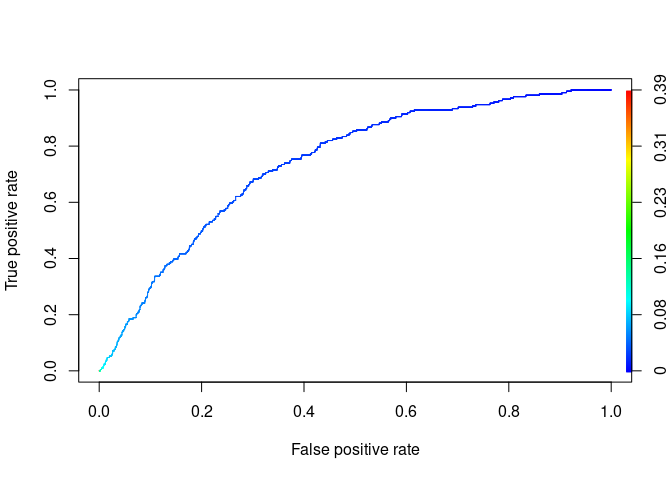
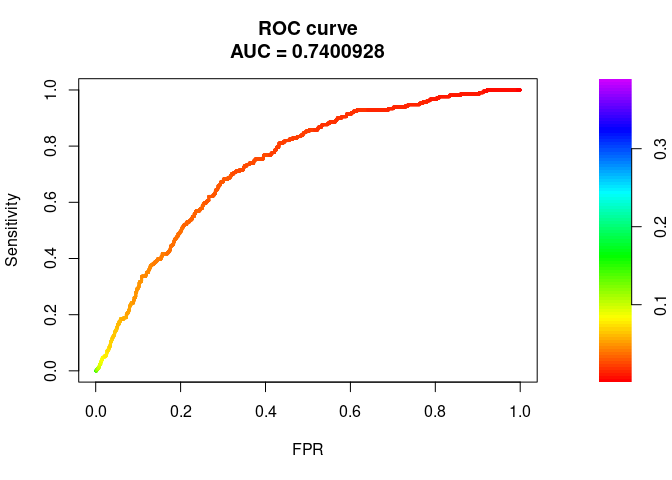
Modifications.

diff --git a/newrmd.md b/newrmd.md
@@ -77,14 +77,18 @@ data <- data %>%
 Plot `lifecycle` over age using line chart:
 
 ``` r
-library(ggplot2)
-library(gridExtra)
-ggplot(data=data, aes(x=age, y=lifecycle, group=1)) +
-  geom_line()+
-  geom_point()
+plot(unique(data[,c("age","lifecycle")]), type = "b", pch = 19, col = "red",
+     main = "Age vs Lifecycle",
+     xlab = "Age",
+     ylab = "Lifecycle")
 ```
 
 ![](newrmd_files/figure-gfm/unnamed-chunk-8-1.png)<!-- -->
+
+``` r
+ library(ggplot2)
+ library(gridExtra)
+```
 
 ### Question 4
 
@@ -98,38 +102,46 @@ book_2 = data[data$account_id=='401749',]
 For each loan, plot the lifecycle of the default rate.
 
 ``` r
-plot_1 = ggplot(data=book_1, aes(x=age, y=default_rate, group=1)) +
-  geom_line()+
-  geom_point()
+par(mfrow=c(1,2))
+
+plot(x = book_1$age, y = book_1$default_rate, type = "b", pch = 19, col = "red",
+     main = "Loan 1",
+     xlab = "Age",
+     ylab = "Default rate")
+
+plot(x = book_2$age, y = book_2$default_rate, type = "b", pch = 19, col = "red",
+     main = "Loan 2",
+     xlab = "Age",
+     ylab = "Default rate")
 ```
 
-``` r
-plot_2 = ggplot(data=book_2, aes(x=age, y=default_rate, group=1)) +
-  geom_line()+
-  geom_point()
-```
-
-``` r
-grid.arrange(plot_1, plot_2, ncol=2)
-```
-
-![](newrmd_files/figure-gfm/unnamed-chunk-12-1.png)<!-- -->
+![](newrmd_files/figure-gfm/unnamed-chunk-10-1.png)<!-- -->
 
 Do the two loans follow the portfolio’s lifecycle?
 
 ``` r
-plot_3 = ggplot(data = data, aes(x=age, y=lifecycle, group=1)) +
-  geom_line() +
-  geom_line(data = book_1, aes(x=age, y=default_rate, group=1), color = "red")
+par(mfrow=c(1,2))
 
-plot_4 = ggplot(data = data, aes(x=age, y=lifecycle, group=1)) +
-  geom_line() +
-  geom_line(data = book_2, aes(x=age, y=default_rate, group=1), color = "red")
+plot(x = book_1$age, y = book_1$default_rate, type = "b", pch = 19, col = "red", ylim = c(0, 0.035),
+     main = "Loan 1",
+     xlab = "Age",
+     ylab = "Default rate")
 
-grid.arrange(plot_3, plot_4, ncol=2)
+points(unique(data[,c("age","lifecycle")]), type = "p", pch = 19, col = "black")
+
+lines(unique(data[,c("age","lifecycle")]), lty = 2, col="black")
+
+plot(x = book_2$age, y = book_2$default_rate, type = "b", pch = 19, col = "red", ylim = c(0, 0.08),
+     main = "Loan 2",
+     xlab = "Age",
+     ylab = "Default rate")
+
+points(unique(data[,c("age","lifecycle")]), type = "p", pch = 19, col = "black")
+
+lines(unique(data[,c("age","lifecycle")]), lty = 2, col="black")
 ```
 
-![](newrmd_files/figure-gfm/unnamed-chunk-13-1.png)<!-- -->
+![](newrmd_files/figure-gfm/unnamed-chunk-11-1.png)<!-- -->
 
 The first account `400293` seems to align closely with the portfolio’s
 lifecycle, but the second account `401749` doesn’t.
@@ -204,7 +216,7 @@ f_1 = mod_bound$fitted.values
 plot(f_1, data[unlist(mod_bound$obs_selection),]$default_rate)
 ```
 
-![](newrmd_files/figure-gfm/unnamed-chunk-17-1.png)<!-- -->
+![](newrmd_files/figure-gfm/unnamed-chunk-15-1.png)<!-- -->
 
 ``` r
 pred_1 = predict(mod_bound, book_1)
@@ -213,18 +225,28 @@ pred_2 = predict(mod_bound, book_2)
 df_1 = data.frame(Age = book_1$age, Actual = book_1$default_rate, Predicted = pred_1)
 df_2 = data.frame(Age = book_2$age, Actual = book_2$default_rate, Predicted = pred_2)
 
-pplot_1 = ggplot(data = df_1, aes(x=Age, y=Actual, group=1)) +
-  geom_point() +
-  geom_point(data = df_1, aes(x=Age, y=Predicted, group=1), color = "red")
+par(mfrow=c(1,2))
 
-pplot_2 = ggplot(data = df_2, aes(x=Age, y=Actual, group=1)) +
-  geom_point() +
-  geom_point(data = df_2, aes(x=Age, y=Predicted, group=1), color = "red")
+plot(x = df_1$Age, y = df_1$Predicted, type = "p", pch = 19, col = "red",
+     main = "Loan 1",
+     xlab = "Time",
+     ylab = "Default rate")
 
-grid.arrange(pplot_1, pplot_2, ncol=2)
+points(x = df_1$Age, df_1$Actual, type = "p", pch = 19, col = "black")
+
+legend("topright", c("Actual","Predicted"), col=c("black","red"), pch=c(19,19))
+
+plot(x = df_2$Age, y = df_2$Predicted, type = "p", pch = 19, col = "red",
+     main = "Loan 2",
+     xlab = "Time",
+     ylab = "Default rate")
+
+points(x = df_2$Age, df_2$Actual, type = "p", pch = 19, col = "black")
+
+legend("topright", c("Actual","Predicted"), col=c("black","red"), pch=c(19,19))
 ```
 
-![](newrmd_files/figure-gfm/unnamed-chunk-18-1.png)<!-- -->
+![](newrmd_files/figure-gfm/unnamed-chunk-16-1.png)<!-- -->
 
 ## Problem 2
 
@@ -311,7 +333,7 @@ barplot(monthly_loans$n,
         names.arg = 1:12)
 ```
 
-![](newrmd_files/figure-gfm/unnamed-chunk-24-1.png)<!-- -->
+![](newrmd_files/figure-gfm/unnamed-chunk-22-1.png)<!-- -->
 
 ### Question 3
 
@@ -354,7 +376,7 @@ barplot(yearly_loans$n,
         names.arg = yearly_loans$year)
 ```
 
-![](newrmd_files/figure-gfm/unnamed-chunk-26-1.png)<!-- -->
+![](newrmd_files/figure-gfm/unnamed-chunk-24-1.png)<!-- -->
 
 ### Question 4
 
@@ -424,29 +446,8 @@ merged %>%
 Tabulate the variables `arrears`, `mortgage_type` and `occupancy`.
 
 ``` r
-df = data_frame(merged$arrears, merged$mortgage_type, merged$occupancy)
-apply(df, 2, table)
-```
-
-    ## $`merged$arrears`
-    ## 
-    ##     0     1     2     3     4 
-    ## 52124  5523  2371  1538    27 
-    ## 
-    ## $`merged$mortgage_type`
-    ## 
-    ## bullet    erm linear 
-    ##  19958  17326  18181 
-    ## 
-    ## $`merged$occupancy`
-    ## 
-    ##            btl   holiday home owner occupied 
-    ##          12296          27996          13112
-
-``` r
-# Percentage: waiting for an answer
 library(janitor)
-
+df = data_frame(merged$arrears, merged$mortgage_type, merged$occupancy)
 apply(df, 2, tabyl)
 ```
 
@@ -559,31 +560,23 @@ Plot average predicted vs average actual over time.
 ``` r
 train$default_flag = as.numeric(as.character(train$default_flag))
 agg_1 = train %>% group_by(obs_m) %>% summarise_at(vars(default_flag, pred_default), mean)
-agg_1
+
+plot(agg_1$obs_m, agg_1$default_flag,
+     main = "Actual Default vs Predicted Default",
+     xlab = "Time",
+     ylab = "Default rate",
+     type = "o", col  = "blue", pch=20,
+     )
+lines(agg_1$obs_m, agg_1$pred_default, 
+      lty = 2, col="red")
+
+points(agg_1$obs_m, agg_1$pred_default,
+       col="red", pch = 18)
+
+legend("topright", c("Actual","Predicted"), lty = c(1,2), col=c("blue","red"), pch=c(20,18))
 ```
 
-    ## # A tibble: 60 × 3
-    ##    obs_m      default_flag pred_default
-    ##    <date>            <dbl>        <dbl>
-    ##  1 2014-04-01       0.0588       0.0169
-    ##  2 2014-05-01       0            0.0205
-    ##  3 2014-06-01       0            0.0239
-    ##  4 2014-07-01       0.0638       0.0246
-    ##  5 2014-08-01       0            0.0275
-    ##  6 2014-09-01       0.04         0.0301
-    ##  7 2014-10-01       0.0208       0.0291
-    ##  8 2014-11-01       0            0.0254
-    ##  9 2014-12-01       0.0444       0.0233
-    ## 10 2015-01-01       0            0.0199
-    ## # … with 50 more rows
-
-``` r
-plot(agg_1$obs_m, agg_1$default_flag, type="o", col="blue", pch="o", lty=1, ylab="y" )
-points(agg_1$obs_m, agg_1$pred_default, col="red", pch="*")
-lines(agg_1$obs_m, agg_1$pred_default, col="red",lty=2)
-```
-
-![](newrmd_files/figure-gfm/unnamed-chunk-38-1.png)<!-- -->
+![](newrmd_files/figure-gfm/unnamed-chunk-36-1.png)<!-- -->
 
 Create 3 categories of borrower credit score.
 
@@ -591,23 +584,7 @@ Create 3 categories of borrower credit score.
 train = mutate(train, bcs = ifelse(credit_score<= 650, "low-score", ifelse(credit_score > 650 & credit_score <= 800, "mid-score", "high-score")))
 
 agg_2 = train %>% group_by(bcs) %>% summarise_at(vars(default_flag, pred_default), mean)
-agg_2
-```
 
-    ## # A tibble: 3 × 3
-    ##   bcs        default_flag pred_default
-    ##   <chr>             <dbl>        <dbl>
-    ## 1 high-score      0.00907       0.0121
-    ## 2 low-score       0.0345        0.0353
-    ## 3 mid-score       0.0210        0.0204
-
-``` r
-class(agg_2)
-```
-
-    ## [1] "tbl_df"     "tbl"        "data.frame"
-
-``` r
 barplot(t(as.matrix(agg_2[,-1])),
         main = "Actual Default vs Predicted Default",
         xlab = "Score Category",
@@ -620,25 +597,39 @@ legend("topleft",
        fill = gray.colors(2))
 ```
 
-![](newrmd_files/figure-gfm/unnamed-chunk-39-1.png)<!-- -->
+![](newrmd_files/figure-gfm/unnamed-chunk-37-1.png)<!-- -->
 
 ### Question 15
 
-Generate out of sample predictions.
+Generate out-of-sample predictions.
 
 ``` r
 test$oos_pred = predict(log_mod, test, type = "response")
 
 test$default_flag = as.numeric(as.character(test$default_flag))
-
-agg_3 = test %>% group_by(obs_m) %>% summarise_at(vars(default_flag, oos_pred), mean)
-
-plot(agg_3$obs_m, agg_3$default_flag, type="o", col="blue", pch="o", lty=1, ylab="y")
-points(agg_3$obs_m, agg_3$oos_pred, col="red", pch="*")
-lines(agg_3$obs_m, agg_3$oos_pred, col="red",lty=2)
 ```
 
-![](newrmd_files/figure-gfm/unnamed-chunk-40-1.png)<!-- -->
+Plot average predicted vs average actual over time.
+
+``` r
+agg_3 = test %>% group_by(obs_m) %>% summarise_at(vars(default_flag, oos_pred), mean)
+
+plot(agg_3$obs_m, agg_3$default_flag,
+     main = "Actual Default vs Predicted Default",
+     xlab = "Time",
+     ylab = "Default rate",
+     type = "o", col  = "blue", pch=20,
+     )
+lines(agg_3$obs_m, agg_3$oos_pred, 
+      lty = 2, col="red")
+
+points(agg_3$obs_m, agg_3$oos_pred,
+       col="red", pch = 18)
+
+legend("topright", c("Actual","Predicted"), lty = c(1,2), col=c("blue","red"), pch=c(20,18))
+```
+
+![](newrmd_files/figure-gfm/unnamed-chunk-39-1.png)<!-- -->
 
 ### Question 16
 
@@ -669,36 +660,9 @@ confusionMatrix(test$default_flag, test$outcome)
 Create a receiver operating curve.
 
 ``` r
-library(pROC)
-test_roc = roc(test$default_flag ~ test$outcome, plot = TRUE, print.auc = TRUE)
-```
-
-![](newrmd_files/figure-gfm/unnamed-chunk-43-1.png)<!-- -->
-
-``` r
-print(test_roc)
-```
-
-    ## 
-    ## Call:
-    ## roc.formula(formula = test$default_flag ~ test$outcome, plot = TRUE,     print.auc = TRUE)
-    ## 
-    ## Data: test$outcome in 8115 controls (test$default_flag 0) < 211 cases (test$default_flag 1).
-    ## Area under the curve: 0.5032
-
-``` r
-library(ROCR)
-pred = prediction(test$oos_pred, test$default_flag)
-perf <- performance(pred,"tpr","fpr")
-plot(perf,colorize=TRUE)
-```
-
-![](newrmd_files/figure-gfm/unnamed-chunk-44-1.png)<!-- -->
-
-``` r
 library(PRROC)
 PRROC_obj <- roc.curve(scores.class0 = test$oos_pred, weights.class0=test$default_flag, curve=TRUE)
 plot(PRROC_obj)
 ```
 
-![](newrmd_files/figure-gfm/unnamed-chunk-45-1.png)<!-- -->
+![](newrmd_files/figure-gfm/unnamed-chunk-42-1.png)<!-- -->
